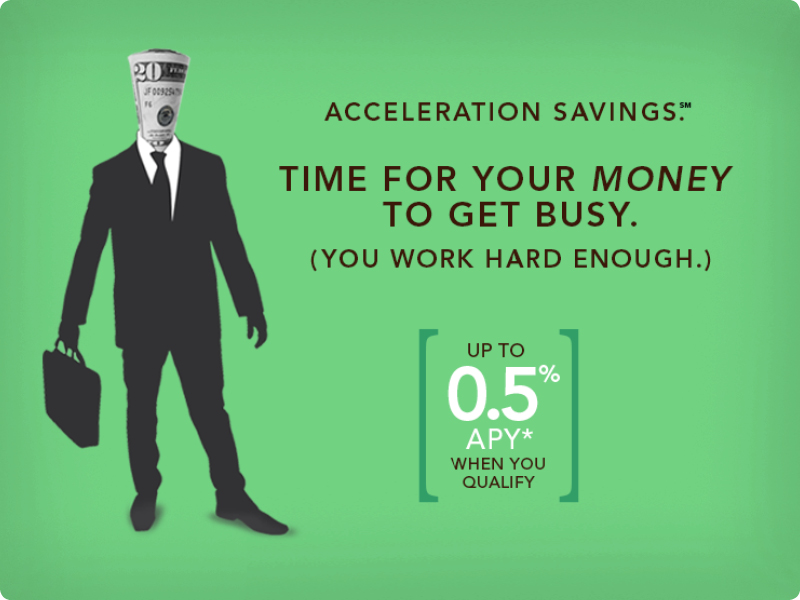
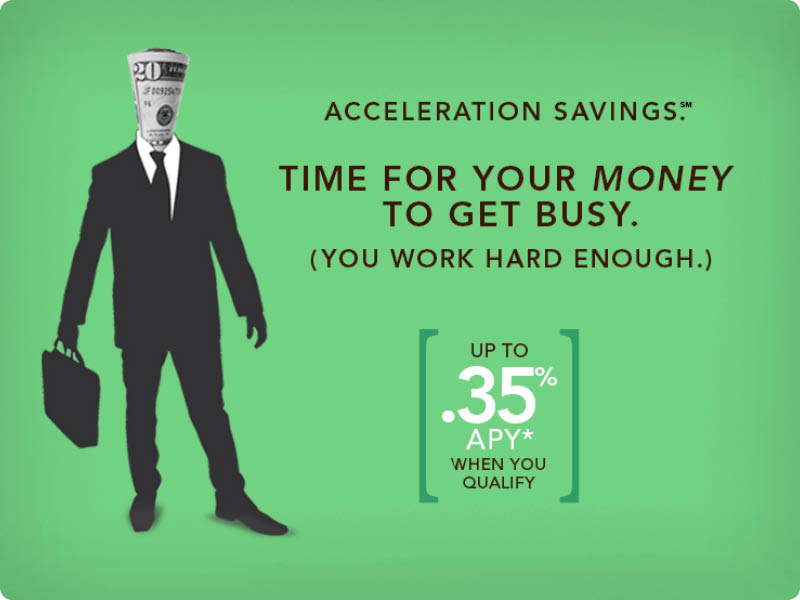
New Acceleration rate

diff --git a/acceleration.html b/acceleration.html
@@ -71,7 +71,7 @@
               </form>
             </div><!- row -->
             <div class="row spacer">
-            	<p>*Annual Percentage Yield accurate as of 8/1/16. Variable rate accounts and interest rates are subject to change. Fees may reduce earnings. Accounts closed within 6 months of opening date are subject to a $25.00 closing fee. Limit one Acceleration Checking and Acceleration Savings account per primary social security number. Acceleration Checking: Minimum balance to open account $100. Customer must initiate set up of e-statements through online banking, establish a monthly direct deposit and perform 12 debit card purchases each month to qualify and receive tiered rates and ATM surcharge refunds up to $12. Transactions may take one or more business days from the date transaction was made to post and clear the account. Checking account balances of $0.00-$10,000.00 (2.50% APY); $10,000.01 and above (.25% APY). If qualifications are not met, all funds in checking account earn .05% APY. If Acceleration Savings is also opened, interest earned on Acceleration Checking is automatically transferred to Acceleration Savings and then compounds at Acceleration Savings rates. Acceleration Savings: Account can only be opened in conjunction with Acceleration Checking Account. Savings account balances of $0.00-$10,000.00 (.50% APY); $10,000.01 and above (.25% APY). If qualifications of Acceleration Checking account are not met during the month, all funds in savings account earn .05% APY.</p>
+            	<p>*Annual Percentage Yield accurate as of 12/1/17. Variable rate accounts and interest rates are subject to change. Fees may reduce earnings. Accounts closed within 6 months of opening date are subject to a $25.00 closing fee. Limit one Acceleration Checking and Acceleration Savings account per primary social security number. Acceleration Checking: Minimum balance to open account $100. Customer must initiate set up of e-statements through online banking, establish a monthly direct deposit and perform 12 debit card purchases each month to qualify and receive tiered rates and ATM surcharge refunds up to $12. Transactions may take one or more business days from the date transaction was made to post and clear the account. Checking account balances of $0.00-$10,000.00 (2.00% APY); $10,000.01 and above (.15% APY). If qualifications are not met, all funds in checking account earn .025% APY. If Acceleration Savings is also opened, interest earned on Acceleration Checking is automatically transferred to Acceleration Savings and then compounds at Acceleration Savings rates. Acceleration Savings: Account can only be opened in conjunction with Acceleration Checking account. Savings account balances of $0.00-$10,000.00 (.35% APY); $10,000.01 and above (.15% APY). If qualifications of Acceleration Checking account are not met during the month, all funds in Savings account earn .025% APY.</p>
             </div><!-- row -->
           </div>
         </main>

diff --git a/checking.html b/checking.html
@@ -54,7 +54,7 @@
               <div class="col-md-12">
                 <a name="acceleration"><img src="img/checkingspeedometerblue1600.jpg" class="picture spacer"></a>
                 <h2 class="anchor text-center">Acceleration Checking</h2>
-                <h4 class="text-center">Think your money can make something of itself?  We do.  Think you should receive benefits just for using your account.  We do too.   Visit <a href="acceleration.html">Acceleration Banking </a>to learn more.</h4>
+                <h4 class="text-center">Think your money can make something of itself?  We do.  Think you should receive benefits just for using your account?  We do too.   Visit <a href="acceleration.html">Acceleration Banking </a>to learn more.</h4>
                 <p><a class="btn btn-primary col-sm-2 col-sm-offset-5 col-xs-offset-5 col-md-2 col-md-offset-5" href="https://jha.loanspq.com/Consumer/login/default.aspx?enc2=CjDDGQgp6ViDEpMSQAmj1Mt9iJ47rlWOAvGdAbRNw9KIzpskPBYevcGEW_G3Wn3mBEBWM1TImJDWIpCFekBc-KEztP52jxLl1ae26VD7CFvJyV9_G7IfwjNvHAus0ey3">Apply Now <span class="icon fa fa-arrow-circle-right"></span></a></p>
               </div>
             </div><!-- row -->
